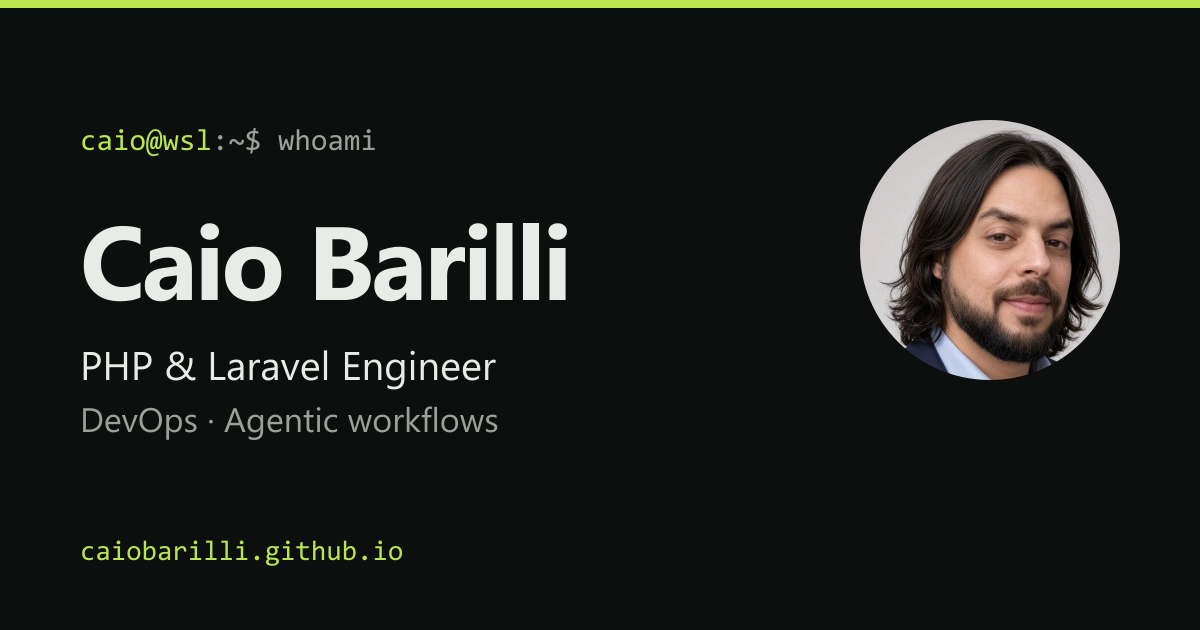
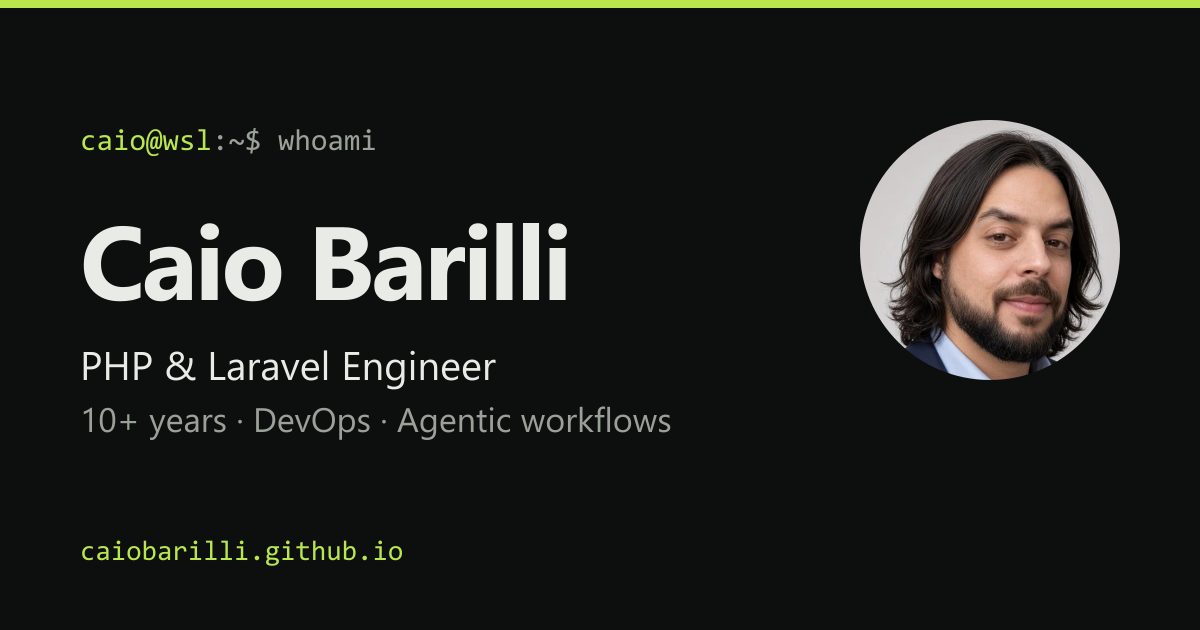
fix: segunda rodada do QA com alvos de toque, link da 404, título da home e textos aprovados

Changed region(s): [[0.0617, 0.6333, 0.555, 0.6937]]

diff --git a/src/app/[locale]/page.tsx b/src/app/[locale]/page.tsx
@@ -79,7 +79,7 @@ export default async function Home({ params }: { params: Promise<{ locale: strin
               <span className="self-start rounded-full border border-accent-line px-2.5 py-1 font-mono text-xs font-medium text-accent-text">
                 {localize(hero.tag, locale)}
               </span>
-              <h3 className="text-[clamp(34px,4vw,48px)] font-bold tracking-[-0.03em]"><Link href={projectHref(locale, hero)} className="hover:text-accent-text">{hero.name}</Link></h3>
+              <h3 className="text-[clamp(34px,4vw,48px)] font-bold tracking-[-0.03em]"><Link href={projectHref(locale, hero)} className="inline-flex min-h-11 items-center hover:text-accent-text">{hero.name}</Link></h3>
               <p className="text-lg leading-[1.55] text-pretty text-ink-2">{localize(hero.desc, locale)}</p>
               <div className="font-mono text-[13px] leading-[1.6] text-muted">{stackLine(hero)}</div>
               <Link href={projectHref(locale, hero)} className="mt-1.5 flex min-h-11 items-center self-start text-[15px] font-semibold hover:text-accent-text">
@@ -94,7 +94,7 @@ export default async function Home({ params }: { params: Promise<{ locale: strin
                 <Link href={projectHref(locale, p)} tabIndex={-1} aria-hidden="true" className="block"><Shot src={shotSrc(p.shot)} alt="" label={s("placeholder")} file={`${s("screenshot")} · ${p.shot}`} className="aspect-[16/10]" /></Link>
                 <div className="flex flex-1 flex-col gap-2.5 p-6">
                   <span className="font-mono text-xs font-medium text-accent-text">{localize(p.tag, locale)}</span>
-                  <h3 className="text-2xl leading-[1.15] font-semibold tracking-[-0.02em]"><Link href={projectHref(locale, p)} className="hover:text-accent-text">{p.name}</Link></h3>
+                  <h3 className="text-2xl leading-[1.15] font-semibold tracking-[-0.02em]"><Link href={projectHref(locale, p)} className="inline-flex min-h-11 items-center hover:text-accent-text">{p.name}</Link></h3>
                   <p className="flex-1 text-[15px] leading-[1.55] text-pretty text-ink-2">{localize(p.desc, locale)}</p>
                   <div className="font-mono text-xs leading-[1.6] text-muted">{stackLine(p)}</div>
                   <Link href={projectHref(locale, p)} className="flex min-h-11 items-center self-start text-sm font-semibold hover:text-accent-text">
@@ -154,9 +154,12 @@ export default async function Home({ params }: { params: Promise<{ locale: strin
           <div className="grid grid-cols-[repeat(auto-fit,minmax(min(100%,300px),1fr))] gap-5">
             {articles.map((a) => (
               <article key={a.url} className="flex flex-col gap-3 rounded-2xl border border-line p-7 hover:border-line-strong">
-                <span className="font-mono text-[13px] text-muted">{localize(a.date, locale)}</span>
+                <span className="font-mono text-[13px] text-muted">
+                  {localize(a.date, locale)}
+                  {s("articleLang") && ` · ${s("articleLang")}`}
+                </span>
                 <h3 className="text-[21px] leading-[1.3] font-semibold tracking-[-0.01em] text-pretty">
-                  <a href={a.url} className="hover:text-accent-text">{localize(a.title, locale)}</a>
+                  <a href={a.url} className="inline-flex min-h-11 items-center hover:text-accent-text">{localize(a.title, locale)}</a>
                 </h3>
                 <p className="flex-1 text-[15px] leading-[1.55] text-ink-2">{localize(a.summary, locale)}</p>
                 <a href={a.url} className="flex min-h-11 items-center self-start text-sm font-semibold text-accent-text">
@@ -174,7 +177,7 @@ export default async function Home({ params }: { params: Promise<{ locale: strin
           </div>
           <div className="flex flex-col items-start gap-3 font-mono text-[15px] font-medium">
             {email && (
-              <a href={email.url} className="rounded-full border-[1.5px] border-on-accent px-3.5 py-2 hover:bg-on-accent hover:text-accent">
+              <a href={email.url} className="flex min-h-11 items-center rounded-full border-[1.5px] border-on-accent px-3.5 hover:bg-on-accent hover:text-accent">
                 {email.handle}
               </a>
             )}

diff --git a/src/components/Header.tsx b/src/components/Header.tsx
@@ -34,7 +34,9 @@ export function Header({ locale, nav, labels }: Props) {
   const isActive = (href: string) =>
     href === `/${locale}/` ? pathname === href : pathname.startsWith(href);
 
-  const switchHref = (target: Locale) => pathname.replace(`/${locale}/`, `/${target}/`);
+  // Same page in the other language. Outside a locale (the static 404 before hydration), the other language's home.
+  const switchHref = (target: Locale) =>
+    pathname.startsWith(`/${locale}/`) ? pathname.replace(`/${locale}/`, `/${target}/`) : `/${target}/`;
   const langs: { code: Locale; label: string; htmlLang: string }[] = [
     { code: "en", label: "EN", htmlLang: "en" },
     { code: "pt-br", label: "PT", htmlLang: "pt-BR" },
@@ -68,14 +70,14 @@ export function Header({ locale, nav, labels }: Props) {
         </nav>
 
         <div className="flex items-center gap-2">
-          <div role="group" aria-label={labels.lang} className="flex rounded-full border border-line-strong p-[3px] font-mono text-xs font-medium">
+          <div role="group" aria-label={labels.lang} className="flex rounded-full border border-line-strong font-mono text-xs font-medium">
             {langs.map((l) =>
               l.code === locale ? (
-                <span key={l.code} lang={l.htmlLang} aria-current="true" className="flex min-h-9 min-w-11 items-center justify-center rounded-full bg-ink px-3 text-bg">
+                <span key={l.code} lang={l.htmlLang} aria-current="true" className="flex min-h-11 min-w-11 items-center justify-center rounded-full bg-ink px-3 text-bg">
                   {l.label}
                 </span>
               ) : (
-                <Link key={l.code} lang={l.htmlLang} hrefLang={l.htmlLang} href={switchHref(otherLocale(locale))} className="flex min-h-9 min-w-11 items-center justify-center rounded-full px-3 text-muted hover:text-ink">
+                <Link key={l.code} lang={l.htmlLang} hrefLang={l.htmlLang} href={switchHref(otherLocale(locale))} className="flex min-h-11 min-w-11 items-center justify-center rounded-full px-3 text-muted hover:text-ink">
                   {l.label}
                 </Link>
               ),

diff --git a/e2e/site.spec.ts b/e2e/site.spec.ts
@@ -88,6 +88,23 @@ test.describe("home", () => {
     expect(sitemap).toContain("https://caiobarilli.github.io/en/projects/info4all/");
   });
 
+  test("the home title carries the role, numbers follow the language and articles say they are in Portuguese", async ({ page }) => {
+    await page.goto("/en/");
+    await expect(page).toHaveTitle("Caio Barilli · PHP & Laravel Engineer");
+    await expect(page.getByText("Sep 4, 2026 · In Portuguese")).toBeVisible();
+    await page.goto("/pt-br/");
+    await expect(page.getByText("4 set 2026", { exact: true })).toBeVisible();
+    await page.goto("/pt-br/projects/keeptask/");
+    await expect(page.getByText("~2.000", { exact: true })).toBeVisible();
+    await page.goto("/en/projects/keeptask/");
+    await expect(page.getByText("~2,000", { exact: true })).toBeVisible();
+  });
+
+  test("the static 404 never links to the internal _not-found route", async ({ request }) => {
+    const html = await (await request.get("/404.html")).text();
+    expect(html).not.toContain('href="/_not-found');
+  });
+
   test("every section page has its own title", async ({ page }) => {
     const titles = new Set<string>();
     for (const path of ["/pt-br/", "/pt-br/projects/", "/pt-br/experience/", "/pt-br/about/", "/pt-br/contact/"]) {

diff --git a/src/app/[locale]/projects/[slug]/page.tsx b/src/app/[locale]/projects/[slug]/page.tsx
@@ -104,9 +104,11 @@ export default async function ProjectPage({ params }: { params: Params }) {
         {p.highlights && (
           <dl className="mb-12 grid grid-cols-[repeat(auto-fit,minmax(min(100%,160px),1fr))] gap-px overflow-hidden rounded-2xl border border-line bg-line">
             {p.highlights.map((h) => (
-              <div key={h.value + h.label.en} className="flex flex-col gap-1 bg-surface p-5">
+              <div key={h.label.en} className="flex flex-col gap-1 bg-surface p-5">
                 <dt className="order-2 text-sm leading-snug text-muted">{localize(h.label, locale)}</dt>
-                <dd className="order-1 text-[clamp(28px,3.4vw,40px)] leading-none font-bold tracking-[-0.03em] text-accent-text">{h.value}</dd>
+                <dd className="order-1 text-[clamp(28px,3.4vw,40px)] leading-none font-bold tracking-[-0.03em] text-accent-text">
+                  {typeof h.value === "string" ? h.value : localize(h.value, locale)}
+                </dd>
               </div>
             ))}
           </dl>

diff --git a/src/components/ProjectGrid.tsx b/src/components/ProjectGrid.tsx
@@ -64,7 +64,7 @@ export function ProjectGrid({ projects, filters, labels }: Props) {
                 <span className="text-accent-text">{p.tag}</span>
                 <span className="text-muted">{p.year}</span>
               </div>
-              <h2 className="text-2xl leading-[1.15] font-semibold tracking-[-0.02em]"><Link href={p.href} className="hover:text-accent-text">{p.name}</Link></h2>
+              <h2 className="text-2xl leading-[1.15] font-semibold tracking-[-0.02em]"><Link href={p.href} className="inline-flex min-h-11 items-center hover:text-accent-text">{p.name}</Link></h2>
               <p className="flex-1 text-[15px] leading-[1.55] text-pretty text-ink-2">{p.desc}</p>
               <div className="font-mono text-xs leading-[1.6] text-muted">{p.stackLine}</div>
               <Link href={p.href} className="flex min-h-11 items-center self-start text-sm font-semibold hover:text-accent-text">

diff --git a/src/app/[locale]/layout.tsx b/src/app/[locale]/layout.tsx
@@ -22,7 +22,8 @@ export async function generateMetadata({ params }: { params: Promise<{ locale: s
   if (!isLocale(locale)) return {};
   return {
     metadataBase: new URL(SITE_URL),
-    ...pageMetadata(locale, "Caio Barilli", str(locale, "heroLine"), ""),
+    // Home title: name plus the first part of the role line, e.g. "Caio Barilli · PHP & Laravel Engineer".
+    ...pageMetadata(locale, `Caio Barilli · ${str(locale, "role").split(" · ")[0]}`, str(locale, "heroLine"), ""),
   };
 }
 

diff --git a/src/content/types.ts b/src/content/types.ts
@@ -43,7 +43,8 @@ export type Project = {
   shots: Shot[];
 };
 
-export type Highlight = { value: string; label: Localized };
+/** A big number; per language when the format differs (e.g. "~2,000" in English, "~2.000" in Portuguese). */
+export type Highlight = { value: string | Localized; label: Localized };
 
 export type FeatureGroup = { title: Localized; items: Localized[] };
 
